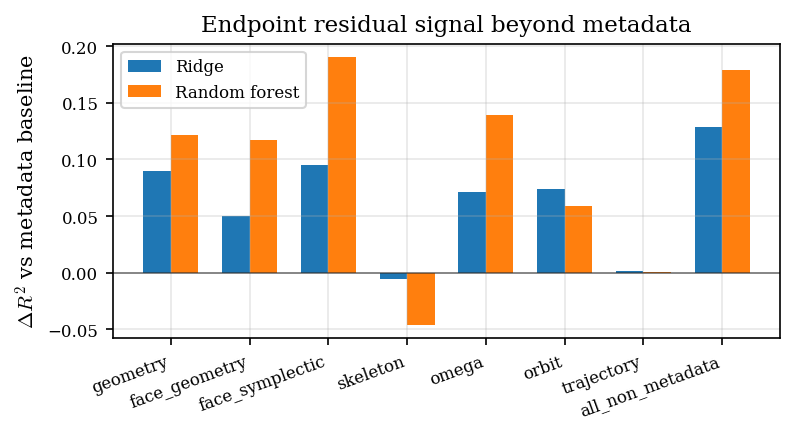
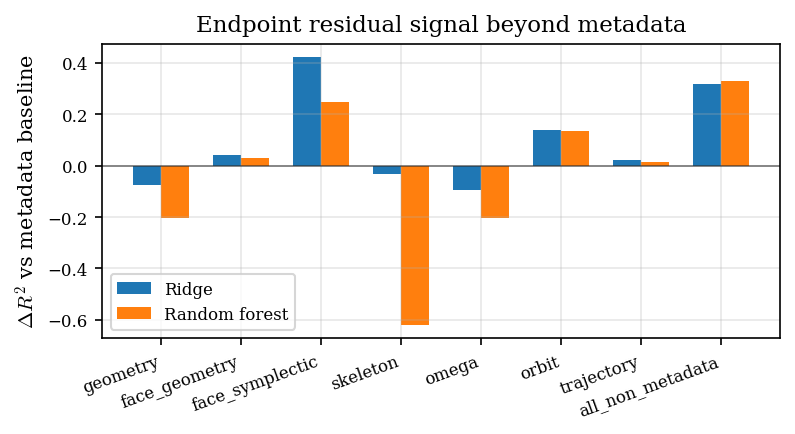
Close data-science residual rows

diff --git a/experiments/sys-landscape/datascience/methods/feature-pattern-search/analyze_residual.py b/experiments/sys-landscape/datascience/methods/feature-pattern-search/analyze_residual.py
@@ -22,6 +22,7 @@ Input Artifacts:
     `--dataset-dir`
 Output Artifacts:
   - experiments/sys-landscape/datascience/methods/feature-pattern-search/feature_pattern_search_residual.png
+  - experiments/sys-landscape/datascience/methods/feature-pattern-search/feature_pattern_search_residual_summary.md
 """
 
 import argparse
@@ -45,6 +46,7 @@ setup()
 
 EXPERIMENT_DIR = Path(__file__).resolve().parent
 RESIDUAL_PNG = EXPERIMENT_DIR / "feature_pattern_search_residual.png"
+RESIDUAL_REPORT = EXPERIMENT_DIR / "feature_pattern_search_residual_summary.md"
 
 MODEL_SPECS = [("ridge", "Ridge"), ("rf", "Random forest")]
 TESTED_BLOCKS = [
@@ -259,6 +261,21 @@ def write_summary(rows: list[JoinedRow], results: dict[str, dict[str, dict[str, 
             )
         lines.append("")
 
+    lines.extend(
+        [
+            "## Verdict",
+            "",
+            "This endpoint-only residual check records endpoint-side association beyond metadata, not a candidate-proposer.",
+            "It does not produce a validated new `sys > 1` row and does not give a rule for proposing fresh candidates before inspecting `sys`, endpoint labels, producer identity, optimizer provenance, or HKO2024-derived status.",
+            "Use it as supporting/caveat evidence only.",
+            "",
+            "Packet verdict: `no-search-output`.",
+            "",
+        ]
+    )
+
+    RESIDUAL_REPORT.write_text("\n".join(lines), encoding="utf-8")
+
 def plot_residual_deltas(results: dict[str, dict[str, dict[str, float]]]) -> None:
     x = np.arange(len(TESTED_BLOCKS))
     width = 0.35
@@ -292,7 +309,7 @@ def main() -> None:
         dataset_dir.mkdir(parents=True, exist_ok=True)
         refresh_dataset(dataset_dir)
 
-    rows = load_joined_rows(dataset_dir)
+    rows = load_joined_rows(dataset_dir, endpoint_only=True)
     if not rows:
         raise RuntimeError("no endpoint rows were loaded")
 
@@ -303,8 +320,10 @@ def main() -> None:
             results[model_name][block] = evaluate_additive_cv(rows, block, model_name)
 
     plot_residual_deltas(results)
+    write_summary(rows, results)
 
     print(f"Saved {RESIDUAL_PNG}")
+    print(f"Saved {RESIDUAL_REPORT}")
 
 
 if __name__ == "__main__":

diff --git a/research/sys-landscape-toolbox-audit.md b/research/sys-landscape-toolbox-audit.md
@@ -86,9 +86,9 @@ Interpret the columns strictly:
 | `hko-local-perturbation-neighborhood` HKO-local perturbation neighborhood | Is the known HKO-side neighborhood locally stable under perturbation? | HKO-local packet | `experiments/hko-local-maximum/perturbation-neighborhood/` | HKO-local evidence is not generic hostile-landscape evidence. | Ledger marks the packet attempted and supporting-only. | Supports local/HKO-neighborhood interpretation, not the generic-search headline by itself. | `ran as local optimization only` / `supporting evidence only` | Supporting material only unless the thesis section discusses HKO-local stability. | Reopen if HKO-local rows become part of the main hostile-landscape claim. |
 | `omega-scalar-hypothesis` omega scalar hypothesis test | Does a cheap scalar geometry hypothesis give a candidate-proposer? | scalar geometry check on landscape packets | `experiments/combinatorial-cells/omega-hypothesis/`; `tasks/planning-notes.md` | Correlation-style check only; no causal or exhaustive guard. | Ledger marks the omega hypothesis correlation check as attempted. | Records one scalar check that did not become a candidate-proposer, not a search theorem. | `ran with no candidate-proposer and no new validated row` / `supporting evidence only` | Supporting evidence if scalar hypotheses are mentioned. | Reopen if the omega feature is redefined or tied to a new committed candidate-proposer. |
 | `visual-exploration` visual exploration | Did projection and picture inspection produce a candidate-proposer? | exploratory geometry and dynamics views | `research/visualization.md`; `tasks/planning-notes.md` | Human visual inspection is exploratory and non-exhaustive. | Ledger records visual exploration as an attempted exploratory check. | Picture inspection produced no recorded rule mapping visible features to candidate rows that were then validated for `sys > 1`. | `ran with no candidate-proposer and no new validated row` / `supporting evidence only` | Supporting or standalone exploration material, pending writing choice. | Reopen if figures become thesis-selected evidence or a visible feature becomes an implemented candidate-proposer. |
-| `feature-block-regression` feature-block regression | Do cheap feature blocks predict `sys` on endpoint rows after fitting on random rows? | tabular random and endpoint rows | `experiments/sys-landscape/datascience/methods/feature-pattern-search/analyze.py`; feature JSONL/PNG artifacts in the same directory; `research/sys-landscape-datascience/idea-ledger.md` (`feature-block-regression`, provisional `stat-sanity`); `research/sys-landscape.md`; `tasks/planning-notes.md` | Grouped CV by lineage/source; random-to-endpoint prediction is the load-bearing guard; the sanity spike adds cheap permuted-label nulls but still needs repo-owned source-truth repair before thesis use. | Provisional `stat-sanity` prose records above-null within-random and within-endpoint pockets, but best random-to-endpoint prediction was still `face_symplectic` at `R^2 = -9.1481` despite beating a weak null p95 of `-14.6865`. | Supports the bounded claim that the current feature packet did not produce a candidate-proposer; within-row-source associations must not be read as endpoint prediction. The null-strength detail stays caveated until the `stat-sanity` row is repaired or downgraded. | `ran with no candidate-proposer and no new validated row` / `validity caveat` | Main evidence for the feature-packet no-candidate-proposer result; sanity/null detail is supporting only until source-truth repair. | Reopen if refreshed feature packets show positive random-to-endpoint prediction, add local-maxima-specific prediction evidence, or fail the `stat-sanity` source-truth repair. |
+| `feature-block-regression` feature-block regression | Do cheap feature blocks predict `sys` on endpoint rows after fitting on random rows? | tabular random and endpoint rows | `experiments/sys-landscape/datascience/methods/feature-pattern-search/analyze.py`; feature JSONL/PNG artifacts in the same directory; `research/sys-landscape-datascience/idea-ledger.md` (`feature-block-regression`, downgraded `stat-sanity`); `research/sys-landscape.md`; `tasks/planning-notes.md` | Grouped CV by lineage/source; random-to-endpoint prediction is the load-bearing guard. The `stat-sanity` scratch check is not repo-owned source truth and is not needed for the main verdict. | Current feature-block report records negative random-to-endpoint prediction. Scratch `stat-sanity` numbers are consistent with this reading but are downgraded to non-load-bearing caveat context. | Supports the bounded claim that the current feature packet did not produce a candidate-proposer; within-row-source associations must not be read as endpoint prediction. | `ran with no candidate-proposer and no new validated row` / `validity caveat` | Main evidence for the feature-packet no-candidate-proposer result. Do not quote `stat-sanity` null numbers in thesis without adding repo-owned source truth. | Reopen if refreshed feature packets show positive random-to-endpoint prediction or add local-maxima-specific prediction evidence. |
 | `regime-classification` endpoint-vs-random classification | Can standard classifiers separate endpoint rows from random rows, and is the separator geometric rather than provenance-heavy? | grouped tabular endpoint-vs-random task | `experiments/sys-landscape/datascience/methods/feature-pattern-search/analyze_regime_classification.py`; `regime-classification-report.md`; `regime_classification_summary.md`; `regime_classification_bars.png`; `research/sys-landscape-datascience/idea-ledger.md` (`regime-classification`) | Grouped split; metadata/provenance fields are an explicit validity caveat; classification alone is not a candidate-proposer. | Current report found perfect provenance-metadata separation and above-null non-provenance separation. Best logistic geometry/orbit block was `skeleton` (`balanced_accuracy ~= 0.8728`, `ROC AUC ~= 0.9223`); best random-forest geometry/orbit block was `face_geometry` (`balanced_accuracy ~= 0.9275`, `ROC AUC ~= 0.9831`). | Current endpoint and random rows are distinguishable in the feature table, but the result does not give a rule for proposing new candidates before inspecting `sys`, endpoint labels, producer identity, or optimizer provenance. | `ran with no candidate-proposer and no new validated row` / `validity caveat` | Supporting/caveat only. | Reopen if a larger/refreshed table changes the row guards, if Jörn wants permutation/bootstrap intervals for a thesis caveat, or if someone proposes a candidate-proposer derived from the classifier without using the forbidden inputs. |
-| `endpoint-residualized-regression` endpoint residualized regression | Do endpoint feature blocks add endpoint-only grouped-CV association beyond metadata? | endpoint-only grouped tabular packet | `experiments/sys-landscape/datascience/methods/feature-pattern-search/analyze_residual.py`; `feature_pattern_search_residual.png`; `research/sys-landscape-datascience/endpoint-residualized-regression-disposition-2026-05-31.md` | Intended guard is grouped endpoint CV after metadata-first residualization, but the current analyzer does not enforce endpoint-only loading and has no durable markdown report. | Review found that the committed analyzer calls `load_joined_rows(dataset_dir)` instead of `load_joined_rows(dataset_dir, endpoint_only=True)`, and `write_summary(...)` is not used to produce a committed report. | Current artifacts are not thesis-bearing. Repair narrowly before thesis use, or cut/future the row by Jörn decision. A scratch check suggested endpoint-side association but no rule for proposing candidates before inspecting forbidden inputs, and no `sys > 1` row. | `implementation bug; no method verdict` / `validity caveat` | Redo-before-thesis or cut/future; do not cite as main evidence now. | Reopen if the analyzer is fixed, a durable report is committed, and the ledgers record a terminal thesis-use verdict. |
+| `endpoint-residualized-regression` endpoint residualized regression | Do endpoint feature blocks add endpoint-only grouped-CV association beyond metadata? | endpoint-only grouped tabular packet | `experiments/sys-landscape/datascience/methods/feature-pattern-search/analyze_residual.py`; `feature_pattern_search_residual_summary.md`; `feature_pattern_search_residual.png`; `research/sys-landscape-datascience/endpoint-residualized-regression-disposition-2026-05-31.md` | Grouped endpoint CV after metadata-first residualization; endpoint-only loading is enforced after the 2026-06-03 repair. | Repaired report records 112 endpoint rows and 5 grouped endpoint folds. Some blocks add endpoint-only association beyond metadata; strongest ridge block is `face_symplectic` with combined `R^2 = 0.4065`, and strongest random-forest block is `all_non_metadata` with combined `R^2 = 0.3225`. | Endpoint-side associations exist, but this does not give a rule for proposing new candidates before inspecting forbidden inputs and does not produce a validated new `sys > 1` row. | `ran with no candidate-proposer and no new validated row` / `validity caveat` | Supporting/caveat only; not main hostile-landscape evidence. | Reopen if endpoint rows or feature packets change, or if the residual association is turned into a candidate-proposer without using forbidden inputs. |
 | PCA / global dimensionality reduction | Would a global low-dimensional embedding become a candidate-proposer? | bounded feature-table spike | `research/sys-landscape-datascience/idea-ledger.md` (`pca-cluster-anomaly`) | The spike excluded metadata/provenance fields and required a rule specified before inspecting `sys`, not only correlation with `sys`. | PCA found feature structure correlated with `sys`, but the strongest direction also carried row-source/dataset structure and did not define a candidate-proposer. | Records a bounded PCA spike with no candidate-proposer, not a theorem that no embedding can help. | `ran with no candidate-proposer and no new validated row` / `validity caveat` | Supporting evidence only. | Reopen if a rule for sampling toward a feature-space region is proposed without using `sys`, endpoint labels, dataset identity, or optimizer provenance. |
 | Clustering / manifold learning | Would unsupervised grouping of landscape rows define a candidate-proposer? | bounded feature-table spike | `research/sys-landscape-datascience/idea-ledger.md` (`pca-cluster-anomaly`) | A valid result needed a cluster-to-search rule rather than rediscovery of producer families. | KMeans clusters were high-sys enriched, but the high-sys clusters were endpoint-heavy and dataset-heavy; anomaly detection was not high-sys enriched. | Current clustering/anomaly spike did not produce a candidate-proposer. | `ran with no candidate-proposer and no new validated row` / `validity caveat` | Supporting evidence only. | Reopen if a non-post-hoc cluster rule can be turned into fresh candidate generation. |
 | SVM family | Would support-vector classifiers/regressors change the supervised feature-table verdicts? | deferred supervised alternatives on feature tables | No committed SVM method packet found in the active ledger. | Would need the same grouped CV and random-to-endpoint prediction tests as `feature-block-regression` and endpoint-vs-random classification. | SVMs are not attempted in the current before-submission evidence set. | Their absence is a coverage caveat, not evidence for or against the random-to-endpoint prediction observation. | `not run within the stated implementation bound` | Explicit omitted-family caveat only; do not cite as failed. | Reopen if a thesis reader expects SVM baselines or if current analyzers are extended cheaply. |

diff --git a/research/sys-landscape-datascience/idea-ledger.md b/research/sys-landscape-datascience/idea-ledger.md
@@ -127,10 +127,10 @@ canonical refresh.
 | --- | --- | --- | --- | --- | --- | --- |
 | `feature-block-regression` | Feature-block regression with ridge and random forest | method | Existing feature-block packet over random and endpoint rows | Grouped CV, random-to-endpoint prediction, null baseline | `no-search-output` | Cached in `research/sys-landscape-toolbox-audit.md`; reopen if refreshed feature tables predict endpoint rows well enough to define a candidate-proposer. |
 | `regime-classification` | Endpoint-vs-random classification | method | Existing endpoint-vs-random classification packet | Whether non-provenance blocks separate endpoint rows from random rows better than null and metadata caveats | `no-search-output` | Current-contract pilot in `experiments/sys-landscape/datascience/methods/feature-pattern-search/regime-classification-report.md`; use as supporting/caveat only, not as a candidate-proposer. |
-| `endpoint-residualized-regression` | Endpoint residualized regression beyond metadata | method | Existing residualized-regression packet | Whether endpoint geometry/orbit/trajectory blocks add endpoint-only grouped-CV association beyond metadata | `needs-repair-or-cut` | Review note: `endpoint-residualized-regression-disposition-2026-05-31.md`. Current analyzer does not enforce endpoint-only loading and has no durable markdown report. Repair narrowly before thesis use, or cut/future the row by Jörn decision. |
+| `endpoint-residualized-regression` | Endpoint residualized regression beyond metadata | method | Existing residualized-regression packet | Whether endpoint geometry/orbit/trajectory blocks add endpoint-only grouped-CV association beyond metadata | `no-search-output` | Repaired on 2026-06-03. Durable report: `experiments/sys-landscape/datascience/methods/feature-pattern-search/feature_pattern_search_residual_summary.md`. Endpoint-side associations exist, but the row gives no candidate-proposer and no validated new `sys > 1` row. Use as supporting/caveat only. |
 | `pca-cluster-anomaly` | PCA / clustering / anomaly scan over current feature blocks | method spike | Existing 282-row table and committed feature JSONL | A cluster or component rule specified before inspecting `sys`, or a bounded no-search-output result | `no-search-output` | Main commit `39039550` creates `experiments/sys-landscape/datascience/methods/pca-cluster-spike/` with script and report. |
 | `supervised-alternatives` | Cheap supervised alternatives: lasso, elastic net, boosting, kNN | method spike | Current feature tables only | Whether standard extra models change `feature-block-regression` / endpoint-vs-random classification conclusions under the same grouped split policy | `no-search-output` | Main commit `5e8db378` creates `experiments/sys-landscape/datascience/methods/supervised-alternatives-spike/`; lead had to run the worker's script to produce the report. |
-| `stat-sanity` | Null, permutation, and bootstrap uncertainty checks | sanity | Existing feature-block / endpoint-vs-random classification / residualized-regression outputs | Chance baseline and fold uncertainty for claimed associations or no-search-output results | `no-search-output` | Provisional no-search-output result: worker spike found above-null within-row-source pockets, but the load-bearing random-to-endpoint prediction still has strongly negative R^2. Evidence was promoted into this ledger and the toolbox audit from temporary output; before thesis use, repair with repo-owned source truth or downgrade to non-load-bearing caveat evidence. |
+| `stat-sanity` | Null, permutation, and bootstrap uncertainty checks | sanity | Existing feature-block / endpoint-vs-random classification / residualized-regression outputs | Chance baseline and fold uncertainty for claimed associations or no-search-output results | `future` | Downgraded on 2026-06-03 because the only available source truth is scratch output in `/tmp/ds-stat-sanity-spike/summary.json`, not a committed script/report. The scratch check may be used only as non-load-bearing caveat context unless a repo-owned method packet is added later. |
 | `exact-f64-spot-check` | Exact-vs-f64 spot checks for mathematical columns | sanity | Sampled rows from table-stage features | Detect whether a column implementation turns a true association into noise | `no-search-output` | Main commit `e8528963` creates `experiments/sys-landscape/datascience/methods/exact-f64-spot-check/`; sampled checked columns showed only f64-scale drift. |
 | `deep-latent-models` | Neural networks or deep latent models | method | Current 282-row dataset | Would need overfit controls and enough rows for flexible models | `rejected-low-voi` | Too small and too easy to overfit before thesis closeout; reopen only with much larger data. |
 | `svm-supervised-baseline` | SVM regression/classification baseline | method spike | Current feature tables only | Whether a standard margin-based model changes the supervised random-to-endpoint prediction or endpoint-vs-random classification story under the same grouped split policy | `future` | Candidate for one optional small parallel wave. Skip if setup cost is not clearly lower than its thesis value; otherwise write source truth under `experiments/sys-landscape/datascience/methods/svm-supervised-baseline/`. |
@@ -147,8 +147,8 @@ they run.
 
 | Order | Slug | Shape | Why now | Dependency / stop condition | Expected terminal outcome |
 | --- | --- | --- | --- | --- | --- |
-| 1 | `endpoint-residualized-regression` | Narrow repair-or-cut decision for existing packet | It is the remaining artifact-backed method whose current analyzer contract prevents thesis use. | If repaired, stop for `candidate-proposer` only if residual features give a rule for selecting candidate rows or a measurable falsification condition; otherwise classify as no-search-output, caveat-only, future, or omitted. If cut, record the cut/future verdict. | Repaired report plus ledger/audit disposition, or explicit cut/future row. |
-| 2 | `stat-sanity` | Source-truth repair or downgrade | The prose result currently supports the random-to-endpoint prediction/caveat story but lacks committed script/report source truth. | If rerun details are not recoverable cheaply, downgrade to non-load-bearing caveat evidence instead of rebuilding a broad statistics program. | Repo-owned report/script or explicit non-load-bearing downgrade. |
+| 1 | `endpoint-residualized-regression` | Narrow repair for existing packet | Completed on 2026-06-03. | Reopen only if endpoint data or feature packets change, or if someone derives a candidate-proposer without forbidden inputs. | `no-search-output`; supporting/caveat only. |
+| 2 | `stat-sanity` | Source-truth downgrade | Completed on 2026-06-03. | Reopen only if a repo-owned script/report is added because thesis text needs null/permutation numbers. | `future`; not thesis-bearing. |
 | 3a | `svm-supervised-baseline` | Optional small parallel probe | SVMs are a standard omitted-family caveat and may be cheap because the supervised table machinery already exists. | Run only after the serial row does not produce a positive follow-up. Stop if dependency/setup churn exceeds the value of an omitted-family row. | Negative/supporting report or explicit skipped-low-VOI row. |
 | 3b | `interpretable-tail-rules` | Optional small parallel probe | This is the simplest interpretable row that could falsify the no-candidate-proposer story by producing a candidate-proposer. | Run only after the serial row does not produce a positive follow-up. Stop for any candidate-proposer and hand to a falsification/search packet before adding more unrelated methods. | Candidate-proposer plus follow-up packet, or a bounded no-search-output result for simple rules. |
 
@@ -327,11 +327,10 @@ Qualifiers: `evidence_strength = medium`; `implementation_trust = medium`;
 
 ### `stat-sanity` Null / Permutation / Bootstrap Sanity Checks
 
-Disposition: provisional evidence promoted into this ledger and
-`research/sys-landscape-toolbox-audit.md`; temporary worktree discarded. Treat as
-an open source-truth repair or downgrade before thesis use because the script,
-report, and run outputs are not committed under the current report-ledger
-contract.
+Disposition: downgraded on 2026-06-03 to non-load-bearing caveat evidence. The
+script, report, and run outputs are not committed under the current
+report-ledger contract, so do not quote the numerical null/permutation results
+as thesis source truth unless a repo-owned method packet is added later.
 
 Worker command:
 
@@ -360,7 +359,7 @@ Observation:
   accuracy `1.0000` and ROC AUC `1.0000`; the `all_non_metadata` block also
   reached balanced accuracy `1.0000`.
 
-Inference:
+Scratch inference:
 
 The null checks make the within-row-source associations harder to dismiss as
 pure chance, but they do not produce a candidate-proposer. The
@@ -370,8 +369,12 @@ while still being unusable for endpoint prediction, because its actual endpoint
 producer sources, including with non-metadata blocks, but this does not identify
 where to sample for new `sys > 1` rows.
 
-Verdict: provisional `no-search-output`; terminal thesis use requires repo-owned
-source-truth repair or downgrade to non-load-bearing caveat evidence.
+Verdict: `future`.
+
+Thesis use: do not use as a claim-bearing method row. It may explain why
+within-row-source associations were not promoted into a candidate-proposer, but
+the main no-candidate-proposer result must rest on committed method reports and
+the toolbox audit rather than these scratch numbers.
 
 ### `exact-f64-spot-check` Exact-vs-f64 Spot Check
 

diff --git a/tasks/references/central-claim-control-packet-2026-06-01.md b/tasks/references/central-claim-control-packet-2026-06-01.md
@@ -42,7 +42,7 @@ Allowed review gates:
 | `hko-local-maximum.tex` | Supporting empirical checks include first-order numerical bookkeeping, second-order checks, perturbation, facet-splitting, cut-and-ascent, and neighborhood checks. | HKO local result | `research/hko-local-maximum.md`; `experiments/hko-local-maximum/README.md` | supporting evidence only | State these are sanity/support checks, not substitutes for exact calculation. | empirical tests subsection | Select only checks that support retained wording. | `none: caveated/status wording` |
 | `black-box-datascience.tex` | Search surface includes random generic polytopes, random Lagrangian products, fixed-F gradient ascent, product ascent, variable-F continuation, regular polygon probes, and datascience pipeline. | search/data-science result | `research/sys-landscape.md`; `research/sys-landscape-toolbox-audit.md` | source-backed current surface | Keep HKO-specific packets outside principal hostile-search table unless explicitly used as controls. | opening / rows subsection | Define row families and caveats. | `none: caveated/status wording` |
 | `black-box-datascience.tex` | Random generic/product samples and fixed-F/variable-F ascent did not find a new source of `sys > 1` examples; regular pentagon-product geometry remains the known positive structured contrast. | search/data-science result; pentagon product result | `research/sys-landscape.md`; `research/sys-landscape-toolbox-audit.md` | bounded empirical support | Do not claim no positive examples. Do not claim exhaustive search or density theorem. | result table intro | Draft table text from audit rows. | `none: caveated/status wording` |
-| `black-box-datascience.tex` | Feature/regression/classification/PCA/clustering/supervised alternatives mostly record no candidate-proposer, or caveat-only diagnostics; endpoint residualized regression is not thesis-bearing as-is. | search/data-science result | `research/sys-landscape-toolbox-audit.md`; `research/sys-landscape-datascience/idea-ledger.md` | mixed: some source-backed, some redo/downgrade | `endpoint-residualized-regression` must be repaired or cut/futured; `stat-sanity` should not be load-bearing until source-truth repaired. | methods subsection / appendix pointer | Run hostile method-table closeout packet before final prose. | `none: caveated/status wording` |
+| `black-box-datascience.tex` | Feature/regression/classification/PCA/clustering/supervised alternatives record no candidate-proposer, or caveat-only diagnostics; endpoint residualized regression is repaired as supporting/caveat evidence only. | search/data-science result | `research/sys-landscape-toolbox-audit.md`; `research/sys-landscape-datascience/idea-ledger.md`; `experiments/sys-landscape/datascience/methods/feature-pattern-search/feature_pattern_search_residual_summary.md` | mixed: source-backed method rows plus downgraded caveats | `stat-sanity` is downgraded and must not carry thesis numerical null/permutation claims unless a repo-owned method packet is added later. | methods subsection / appendix pointer | Draft from the closed method table; optional future rows should not block this wording. | `none: caveated/status wording` |
 | `black-box-datascience.tex` | If a method records a validated new `sys > 1` row outside the known HKO2024-derived source or records a candidate-proposer, unrelated method churn stops and the lead is escalated. | search/data-science result | `research/sys-landscape-datascience/idea-ledger.md`; `tasks/planning-notes.md` | process/interpretation rule | This is not a thesis result unless such a lead exists. | result-types subsection | Keep as method-policy caveat, not main claim. | `none: caveated/status wording` |
 | `conclusion.tex` | Summarize HKO local result at the support strength actually achieved. | HKO local result | HKO rows above | depends on Packet 3 outcome | Theorem if certificate closes; otherwise support/certificate-in-progress wording. | first conclusion paragraph | Draft last from HKO final wording. | `Jörn math correctness`; `Kai theorem framing` |
 | `conclusion.tex` | Summarize pentagon product as positive structured result and search/data-science as finding no new source of `sys > 1` examples and no candidate-proposer beyond the HKO2024-derived source. | pentagon product result; search/data-science result | `FACTSHEET.md`; `thesis/rotated-regular-polygons.tex`; `research/sys-landscape.md`; `research/sys-landscape-toolbox-audit.md` | mixed positive + bounded negative | Keep the distinction explicit: positive known structured examples vs no new source/candidate-proposer. | results summary | Draft from final regular-polygon and method-table wording. | `none: caveated/status wording` |
@@ -61,9 +61,10 @@ Allowed review gates:
    - Input: data-science rows in this file plus
      `research/sys-landscape-toolbox-audit.md` and
      `research/sys-landscape-datascience/idea-ledger.md`.
-   - Output: terminal state for each thesis-used method row; repair/cut decision
-     for `endpoint-residualized-regression`; repair/downgrade decision for
-     `stat-sanity`.
+   - Output: terminal state for each thesis-used method row. Current state:
+     `endpoint-residualized-regression` repaired on 2026-06-03 as
+     supporting/caveat `no-search-output`; `stat-sanity` downgraded on
+     2026-06-03 to non-load-bearing caveat evidence.
    - Stop: no method churn beyond thesis-used rows.
 
 3. Central TeX drafting packet.

diff --git a/research/sys-landscape-datascience/endpoint-residualized-regression-disposition-2026-05-31.md b/research/sys-landscape-datascience/endpoint-residualized-regression-disposition-2026-05-31.md
@@ -2,24 +2,23 @@
 
 Date: 2026-05-31.
 
-Purpose: record the review result for the `endpoint-residualized-regression`
-row. This is a disposition note, not a repaired experiment report.
+Purpose: record the review result and later repair result for the
+`endpoint-residualized-regression` row. The durable repaired report is
+`experiments/sys-landscape/datascience/methods/feature-pattern-search/feature_pattern_search_residual_summary.md`.
 
 ## Disposition
 
-Recommendation: repair narrowly before thesis use, or cut the row from
-thesis-facing evidence.
+Final status after 2026-06-03 repair: `no-search-output`.
 
 Current thesis role:
 
-- not thesis-bearing;
 - not a main hostile-landscape claim;
 - not a candidate-proposer;
-- at most a future/caveat row until repaired or cut.
+- supporting/caveat evidence only.
 
-## Source-Backed Findings
+## Pre-Repair Findings
 
-- `research/sys-landscape-toolbox-audit.md` already marked the row unresolved:
+- `research/sys-landscape-toolbox-audit.md` marked the row unresolved:
   no current-contract report had been reviewed, and current artifacts were not
   enough for a terminal no-search-output or thesis-facing claim.
 - `research/sys-landscape-datascience/idea-ledger.md` marked the row
@@ -27,43 +26,40 @@ Current thesis role:
 - `research/sys-landscape-datascience/method-ledger.md` marked thesis use
   `undecided`.
 - `experiments/sys-landscape/datascience/methods/feature-pattern-search/analyze_residual.py`
-  documents an endpoint-only residual packet, but its current `main()` calls
+  documented an endpoint-only residual packet, but its `main()` called
   `load_joined_rows(dataset_dir)` instead of
   `load_joined_rows(dataset_dir, endpoint_only=True)`.
 - `experiments/sys-landscape/datascience/methods/feature-pattern-search/common.py`
-  supports endpoint filtering via the `endpoint_only` argument.
-- Therefore the committed residual plot is not reliable source truth for the
-  stated endpoint-only question.
-- `analyze_residual.py` defines `write_summary(...)`, but current `main()` does
-  not call it, and no durable residual markdown report is committed.
+  already supported endpoint filtering via the `endpoint_only` argument.
+- `analyze_residual.py` defined `write_summary(...)`, but `main()` did not call
+  it, and no durable residual markdown report was committed.
 
-## Scratch-Only Check
+## Repair Result
 
-A scratch diagnostic on an existing `/tmp` dataset snapshot suggested that some
-endpoint feature blocks may add grouped-CV association beyond metadata. This is
-not durable source truth and does not by itself give a candidate-proposer, a new
-`sys > 1` row, or a follow-up search packet.
+The 2026-06-03 repair made `analyze_residual.py` enforce endpoint-only loading
+via `load_joined_rows(dataset_dir, endpoint_only=True)` and write
+`feature_pattern_search_residual_summary.md`.
 
-Use this only as motivation for the repair-or-cut decision, not as thesis
-evidence.
+The repaired run used `/tmp/sys-ds-reset-pilot-tables-VJ6D0P` and recorded:
 
-## Repair Scope
+- `112` endpoint rows;
+- `5` grouped endpoint folds;
+- endpoint datasets `gradient_ascent_general`, `gradient_ascent_products`, and
+  `variable_f_ascent`.
 
-If Jörn keeps the row, the narrow repair is:
+Several blocks add endpoint-only grouped-CV association beyond metadata. The
+strongest ridge block is `face_symplectic` with metadata `R^2 = -0.0159`,
+combined `R^2 = 0.4065`, and residual `R^2 = 0.4158`. The strongest random
+forest block is `all_non_metadata` with metadata `R^2 = -0.0079`, combined
+`R^2 = 0.3225`, and residual `R^2 = 0.3278`.
 
-- make `analyze_residual.py` enforce endpoint-only loading;
-- write a durable report beside the analyzer;
-- record input data provenance, row counts, grouped split policy, metrics,
-  caveats, verdict, thesis-use proposal, and reopen trigger;
-- regenerate `feature_pattern_search_residual.png` after the script is fixed;
-- update the idea ledger, method ledger, and toolbox audit with the terminal
-  verdict.
+Interpretation: this is an endpoint-side table association, not a
+candidate-proposer. It does not produce a validated new `sys > 1` row and does
+not give a rule for proposing fresh candidates before inspecting `sys`, endpoint
+labels, producer identity, optimizer provenance, or HKO2024-derived status.
 
-If Jörn cuts the row, do not cite this packet in thesis-facing evidence. Mark it
-future or omitted with the reason: current analyzer contract bug and no
-candidate-proposer.
+## Reopen Trigger
 
-## Open Decision
-
-Jörn decision needed: repair this as a caveat-style endpoint diagnostic, or cut
-it from thesis-facing evidence and leave it as future work.
+Reopen if the endpoint dataset changes, if the feature packet is regenerated
+with different row guards, or if someone derives a candidate-proposer that does
+not use forbidden inputs.

diff --git a/research/sys-landscape-datascience/method-ledger.md b/research/sys-landscape-datascience/method-ledger.md
@@ -69,9 +69,9 @@ Interpretation rules:
 | `hko-local-perturbation-neighborhood` | HKO-local search | perturbation neighborhood around HKO2024 |  | HKO-local packet, not generic global search | `experiments/hko-local-maximum/perturbation-neighborhood/` | `attempted` | `supporting-only` | Supports local/HKO-neighborhood interpretation, not the generic-search headline by itself. |
 | `omega-scalar-hypothesis` | scalar hypothesis testing | omega hypothesis correlation check | `STAT-CORR-SPEARMAN` | scalar geometry check on landscape packets | `experiments/combinatorial-cells/omega-hypothesis/`, `tasks/planning-notes.md` | `attempted` | `supporting-only` | Scalar check rather than a main search method; no current candidate-proposer. |
 | `visual-exploration` | visual exploration | 3D projection / picture inspection | `EDA-VIS-PROJECTION`, `EDA-VIS-SCATTER` | exploratory geometry and dynamics views | `research/visualization.md`, `tasks/planning-notes.md` | `attempted` | `supporting-only` | Exploratory result; useful as communication and as evidence that picture inspection produced no candidate-proposer. |
-| `feature-block-regression` | supervised regression | feature-block regression with ridge and random forest | `ISLR-REG-RIDGE`, `ISLR-TREE-RF`, `ESL-SEL-RIDGE`, `ESL-TREE-RF` | tabular feature blocks over random and endpoint rows | `experiments/sys-landscape/datascience/methods/feature-pattern-search/analyze.py`, `research/sys-landscape.md`, `tasks/planning-notes.md` | `attempted` | `main-evidence` | Current repo summary treats the no-candidate-proposer random-to-endpoint prediction result as claim-bearing. |
+| `feature-block-regression` | supervised regression | feature-block regression with ridge and random forest | `ISLR-REG-RIDGE`, `ISLR-TREE-RF`, `ESL-SEL-RIDGE`, `ESL-TREE-RF` | tabular feature blocks over random and endpoint rows | `experiments/sys-landscape/datascience/methods/feature-pattern-search/analyze.py`, `research/sys-landscape.md`, `tasks/planning-notes.md` | `attempted` | `main-evidence` | Current repo summary treats the no-candidate-proposer random-to-endpoint prediction result as claim-bearing. The downgraded `stat-sanity` scratch check is not needed for this main verdict. |
 | `regime-classification` | supervised classification | endpoint-vs-random classification with logistic regression and random forest | `ISLR-CLS-LOGIT`, `ISLR-TREE-RF`, `ESL-LIN-CLS`, `ESL-TREE-RF` | grouped tabular endpoint-vs-random task | `experiments/sys-landscape/datascience/methods/feature-pattern-search/analyze_regime_classification.py`; `experiments/sys-landscape/datascience/methods/feature-pattern-search/regime-classification-report.md`; `experiments/sys-landscape/datascience/methods/feature-pattern-search/regime_classification_summary.md` | `attempted` | `supporting-only` | Current report marks this as a caveated diagnostic: endpoint rows and random rows separate under grouped CV, but the result is not a candidate-proposer. |
-| `endpoint-residualized-regression` | residualized regression check | endpoint residual analysis beyond metadata | `ISLR-REG-RIDGE`, `ISLR-TREE-RF`, `ESL-SEL-RIDGE`, `ESL-TREE-RF`, `EDA-VIS-RESIDUAL` | endpoint-only tabular packet after metadata baseline subtraction | `experiments/sys-landscape/datascience/methods/feature-pattern-search/analyze_residual.py`; `research/sys-landscape-datascience/endpoint-residualized-regression-disposition-2026-05-31.md` | `attempted` | `redo-before-thesis` | Current analyzer does not enforce endpoint-only loading and has no durable report; repair narrowly or cut from thesis-facing evidence. |
+| `endpoint-residualized-regression` | residualized regression check | endpoint residual analysis beyond metadata | `ISLR-REG-RIDGE`, `ISLR-TREE-RF`, `ESL-SEL-RIDGE`, `ESL-TREE-RF`, `EDA-VIS-RESIDUAL` | endpoint-only tabular packet after metadata baseline subtraction | `experiments/sys-landscape/datascience/methods/feature-pattern-search/analyze_residual.py`; `experiments/sys-landscape/datascience/methods/feature-pattern-search/feature_pattern_search_residual_summary.md`; `research/sys-landscape-datascience/endpoint-residualized-regression-disposition-2026-05-31.md` | `attempted` | `supporting-only` | Repaired on 2026-06-03. Endpoint-side associations remain after metadata residualization, but the method gives no candidate-proposer and no validated new `sys > 1` row. |
 
 ## Planned Use In Phase 2
 

diff --git a/experiments/sys-landscape/datascience/methods/feature-pattern-search/feature_pattern_search_residual_summary.md b/experiments/sys-landscape/datascience/methods/feature-pattern-search/feature_pattern_search_residual_summary.md
@@ -1,0 +1,67 @@
+# Feature Pattern Search Residual Summary
+
+## Dataset
+
+- endpoint regime only: `gradient_ascent_general`, `gradient_ascent_products`, and `variable_f_ascent`
+- endpoint rows: `112`
+- grouped endpoint folds: `5`
+- dataset counts:
+  - `gradient_ascent_general`: `10`
+  - `gradient_ascent_products`: `12`
+  - `variable_f_ascent`: `90`
+
+## Method
+
+- baseline: grouped CV model on metadata only
+- residual packet: fit metadata on each train fold, subtract its train-fold predictions, then fit one block model on the residuals
+- signal criterion: `combined R^2 > metadata R^2`; `residual R^2 > 0` is the direct residual check
+- metrics: grouped-CV `R^2` and RMSE
+
+## Blocks
+
+- `geometry`: cheap dual-vertex summaries from the existing geometry packet
+- `face_geometry`: edge-length and facet-volume summaries
+- `face_symplectic`: ridge-polygon symplectic-area summaries
+- `skeleton`: combinatorial face-lattice summaries
+- `omega`: dual-side `omega_0` magnitudes, sign structure, and transition graph summaries
+- `orbit`: cached-best-sigma support and bounded orbit/KKT summaries
+- `trajectory`: endpoint trace aggregates
+- `all_non_metadata`: concatenation of the seven non-metadata blocks above
+
+## Metrics
+
+Reported values are out-of-fold endpoint scores. `Delta R^2` is `combined R^2 - metadata R^2`.
+
+### Ridge
+
+| Block | Metadata R^2 | Combined R^2 | Delta R^2 | Residual R^2 | Metadata RMSE | Combined RMSE | Adds signal? |
+|-------|-------------|--------------|-----------|--------------|---------------|---------------|-------------|
+| `geometry` | -0.0159 | -0.0932 | -0.0773 | -0.0761 | 0.1223 | 0.1268 | no |
+| `face_geometry` | -0.0159 | 0.0264 | 0.0423 | 0.0416 | 0.1223 | 0.1197 | yes |
+| `face_symplectic` | -0.0159 | 0.4065 | 0.4224 | 0.4158 | 0.1223 | 0.0935 | yes |
+| `skeleton` | -0.0159 | -0.0503 | -0.0344 | -0.0338 | 0.1223 | 0.1243 | no |
+| `omega` | -0.0159 | -0.1113 | -0.0954 | -0.0939 | 0.1223 | 0.1279 | no |
+| `orbit` | -0.0159 | 0.1224 | 0.1383 | 0.1362 | 0.1223 | 0.1136 | yes |
+| `trajectory` | -0.0159 | 0.0052 | 0.0211 | 0.0208 | 0.1223 | 0.1210 | yes |
+| `all_non_metadata` | -0.0159 | 0.3024 | 0.3183 | 0.3134 | 0.1223 | 0.1013 | yes |
+
+### Random forest
+
+| Block | Metadata R^2 | Combined R^2 | Delta R^2 | Residual R^2 | Metadata RMSE | Combined RMSE | Adds signal? |
+|-------|-------------|--------------|-----------|--------------|---------------|---------------|-------------|
+| `geometry` | -0.0079 | -0.2101 | -0.2022 | -0.2006 | 0.1218 | 0.1334 | no |
+| `face_geometry` | -0.0079 | 0.0230 | 0.0309 | 0.0306 | 0.1218 | 0.1199 | yes |
+| `face_symplectic` | -0.0079 | 0.2408 | 0.2487 | 0.2468 | 0.1218 | 0.1057 | yes |
+| `skeleton` | -0.0079 | -0.6260 | -0.6181 | -0.6133 | 0.1218 | 0.1547 | no |
+| `omega` | -0.0079 | -0.2130 | -0.2051 | -0.2035 | 0.1218 | 0.1336 | no |
+| `orbit` | -0.0079 | 0.1280 | 0.1359 | 0.1349 | 0.1218 | 0.1133 | yes |
+| `trajectory` | -0.0079 | 0.0063 | 0.0142 | 0.0141 | 0.1218 | 0.1209 | yes |
+| `all_non_metadata` | -0.0079 | 0.3225 | 0.3304 | 0.3278 | 0.1218 | 0.0999 | yes |
+
+## Verdict
+
+This endpoint-only residual check records endpoint-side association beyond metadata, not a candidate-proposer.
+It does not produce a validated new `sys > 1` row and does not give a rule for proposing fresh candidates before inspecting `sys`, endpoint labels, producer identity, optimizer provenance, or HKO2024-derived status.
+Use it as supporting/caveat evidence only.
+
+Packet verdict: `no-search-output`.

diff --git a/tasks/planning-notes.md b/tasks/planning-notes.md
@@ -311,8 +311,9 @@ Near-term independent starts:
 - Hostile landscape: turn the method universe into row packets and drive
   unresolved rows to terminal states with source-owned evidence and
   thesis-use verdicts that can survive focused review.
-  `endpoint-residualized-regression` and `stat-sanity` are important unresolved
-  rows, not the whole ordering.
+  `endpoint-residualized-regression` is now terminal supporting/caveat
+  `no-search-output`; `stat-sanity` is downgraded to non-load-bearing caveat
+  evidence.
 - Thesis writing: `thesis/first-order-perturbations.tex` is agent-suitable for
   a generic row-chart draft with explicit non-generic caveats. Do not accept
   theorem-strength arbitrary-polytope or HKO wording there.
@@ -394,13 +395,13 @@ Guidance:
 - Treat the method table as the deliverable, not any single row. Drive rows
   that the thesis relies on to a terminal state with evidence and adversarially
   defensible interpretation.
-- `endpoint-residualized-regression` has a 2026-05-31 disposition note:
-  current artifacts are not thesis-bearing because the analyzer does not enforce
-  endpoint-only loading and no durable report exists. It is an important
-  unresolved row, but not the whole work ordering.
-- `stat-sanity` is likewise an important unresolved support row; repair,
-  downgrade, or classify it as part of the full-table closeout instead of
-  treating it as a serial gate after one other row.
+- `endpoint-residualized-regression` was repaired on 2026-06-03. It is now a
+  supporting/caveat `no-search-output` row: endpoint-side associations exist,
+  but no candidate-proposer and no validated new `sys > 1` row were recorded.
+- `stat-sanity` was downgraded on 2026-06-03 to non-load-bearing caveat
+  evidence because only scratch output exists. Do not quote its numerical
+  null/permutation results in thesis text unless a repo-owned method packet is
+  added later.
 - Candidate omitted/unfinished rows such as `svm-supervised-baseline` and
   `interpretable-tail-rules` should be evaluated by the same value/cost and
   thesis-table standard: not applicable to this data/search interface,

diff --git a/tasks/current-state.md b/tasks/current-state.md
@@ -73,10 +73,12 @@ source files.
   High-risk fact: tried thesis-affecting results need repo-owned evidence,
   checks appropriate to their verdict, explicit caveats, and thesis-use
   disposition.
-  Current blocker: `endpoint-residualized-regression` is not thesis-bearing as
-  is. Its analyzer does not enforce the documented endpoint-only surface and no
-  durable markdown report exists; see
-  `research/sys-landscape-datascience/endpoint-residualized-regression-disposition-2026-05-31.md`.
+  Current state: `endpoint-residualized-regression` was repaired on 2026-06-03
+  and is now supporting/caveat evidence only. `stat-sanity` was downgraded to
+  non-load-bearing caveat evidence because its only source truth is scratch
+  output. See
+  `research/sys-landscape-datascience/endpoint-residualized-regression-disposition-2026-05-31.md`
+  and `research/sys-landscape-datascience/idea-ledger.md`.
   Refresh when: retained hostile-landscape wording or endpoint datasets change.
 
 - Sys first-order generic row-chart writing is active.
